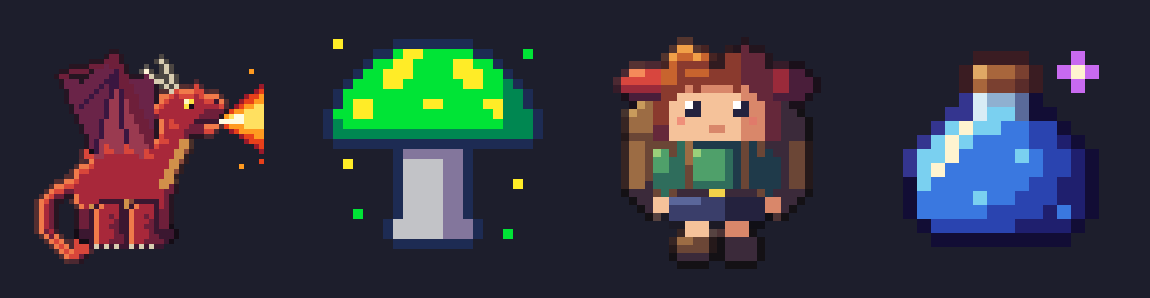
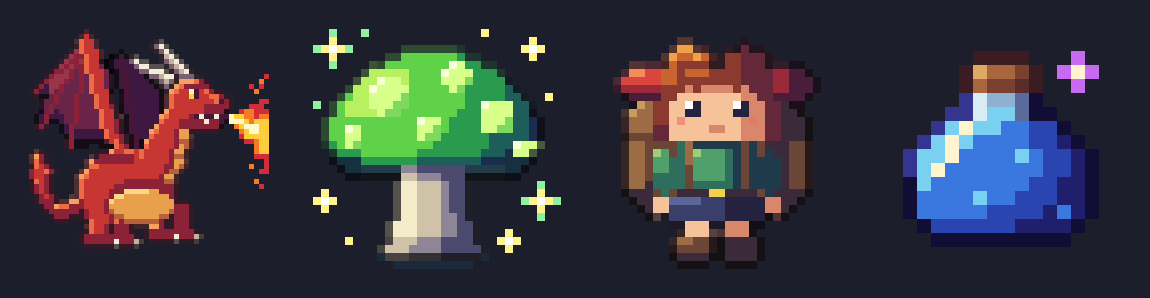
README: redraw the dragon and the mushroom with Claude Opus

Changed region(s): [[0.2739, 0.0906, 0.487, 0.8758], [0.0, 0.0906, 0.2435, 0.8758]]

diff --git a/README.md b/README.md
@@ -59,9 +59,9 @@ given a walk cycle.</sub>
 </table>
 
 <p align="center">
-  <img src="docs/images/examples.png" alt="A red dragon breathing fire, a glowing green mushroom, a girl adventurer and a blue mana potion" width="860"><br>
-  <sub><i>"a small red dragon breathing fire, side view"</i> (48×48) · <i>"a glowing green mushroom"</i>
-  (24×24, PICO-8 palette, max 6 colors) · <i>"a girl adventurer with a big backpack"</i> (32×32) ·
+  <img src="docs/images/examples.png" alt="A red dragon breathing fire, a glowing green mushroom with sparkles, a girl adventurer and a blue mana potion" width="860"><br>
+  <sub><i>"a small red dragon breathing fire, side view"</i> (48×48) · <i>"a glowing magical green mushroom
+  with bright spots and floating sparkles"</i> (32×32) · <i>"a girl adventurer with a big backpack"</i> (32×32) ·
   <i>"a blue mana potion icon"</i> (16×16)</sub>
 </p>
 
@@ -83,7 +83,7 @@ given a walk cycle.</sub>
 <p align="center">
   <img src="docs/images/showcase.png" alt="A fox in four directions, a wizard in the fox's style and a glowing mushroom" width="860"><br>
   <sub>The fox turned into four facings, a wizard drawn with the fox as style reference, and a
-  mushroom limited to the PICO-8 palette and 6 colors.</sub>
+  glowing mushroom.</sub>
 </p>
 
 <p align="center">
